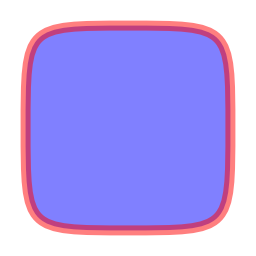
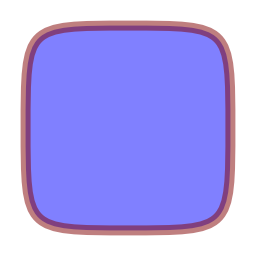
Use NRGBAColor instead of RGBAColor

Changed region(s): [[0.0625, 0.0625, 0.9375, 0.9375]]

diff --git a/cmd/testdraw2d.go b/cmd/testdraw2d.go
@@ -94,8 +94,8 @@ func TestDrawArc() {
 	gc.ArcTo(xc, yc, radiusX, radiusY, startAngle, angle)
 	gc.Stroke()
 	// fill a circle
-	gc.SetStrokeColor(image.RGBAColor{255, 0x33, 0x33, 0x80})
-	gc.SetFillColor(image.RGBAColor{255, 0x33, 0x33, 0x80})
+	gc.SetStrokeColor(image.NRGBAColor{255, 0x33, 0x33, 0x80})
+	gc.SetFillColor(image.NRGBAColor{255, 0x33, 0x33, 0x80})
 	gc.SetLineWidth(6)
 
 	gc.MoveTo(xc, yc)
@@ -125,8 +125,8 @@ func TestDrawArcNegative() {
 	gc.ArcTo(xc, yc, radiusX, radiusY, startAngle, angle)
 	gc.Stroke()
 	// fill a circle
-	gc.SetStrokeColor(image.RGBAColor{255, 0x33, 0x33, 0x80})
-	gc.SetFillColor(image.RGBAColor{255, 0x33, 0x33, 0x80})
+	gc.SetStrokeColor(image.NRGBAColor{255, 0x33, 0x33, 0x80})
+	gc.SetFillColor(image.NRGBAColor{255, 0x33, 0x33, 0x80})
 	gc.SetLineWidth(6)
 
 	gc.MoveTo(xc, yc)
@@ -187,8 +187,8 @@ func TestCurveRectangle() {
 	}
 	gc.Close()
 
-	gc.SetFillColor(image.RGBAColor{0x80, 0x80, 0xFF, 0xFF})
-	gc.SetStrokeColor(image.RGBAColor{0x80, 0, 0, 0x80})
+	gc.SetFillColor(image.NRGBAColor{0x80, 0x80, 0xFF, 0xFF})
+	gc.SetStrokeColor(image.NRGBAColor{0x80, 0, 0, 0x80})
 	gc.SetLineWidth(10.0)
 	gc.FillStroke()
 
@@ -205,13 +205,13 @@ func TestDrawCubicCurve() {
 	x2, y2 := 153.6, 25.6
 	x3, y3 := 230.4, 128.0
 
-	gc.SetFillColor(image.RGBAColor{0xAA, 0xAA, 0xAA, 0xFF})
+	gc.SetFillColor(image.NRGBAColor{0xAA, 0xAA, 0xAA, 0xFF})
 	gc.SetLineWidth(10)
 	gc.MoveTo(x, y)
 	gc.CubicCurveTo(x1, y1, x2, y2, x3, y3)
 	gc.Stroke()
 
-	gc.SetStrokeColor(image.RGBAColor{0xFF, 0x33, 0x33, 0x88})
+	gc.SetStrokeColor(image.NRGBAColor{0xFF, 0x33, 0x33, 0x88})
 
 	gc.SetLineWidth(6)
 	// draw segment of curve
@@ -262,7 +262,7 @@ func TestFillStroke() {
 	gc.Close()
 
 	gc.SetLineWidth(10.0)
-	gc.SetFillColor(image.RGBAColor{0, 0, 0xFF, 0xFF})
+	gc.SetFillColor(image.NRGBAColor{0, 0, 0xFF, 0xFF})
 	gc.SetStrokeColor(image.Black)
 	gc.FillStroke()
 	saveToPngFile("TestFillStroke", i)
@@ -283,7 +283,7 @@ func TestFillStyle() {
 	wheel2.ArcTo(192, 64, 40, 40, 0, 2*math.Pi)
 
 	gc.SetFillRule(draw2d.FillRuleEvenOdd)
-	gc.SetFillColor(image.RGBAColor{0, 0xB2, 0, 0xFF})
+	gc.SetFillColor(image.NRGBAColor{0, 0xB2, 0, 0xFF})
 
 	gc.SetStrokeColor(image.Black)
 	gc.FillStroke(wheel1, wheel2)
@@ -295,7 +295,7 @@ func TestFillStyle() {
 	wheel2.ArcTo(192, 192, 40, 40, 0, -2*math.Pi)
 
 	gc.SetFillRule(draw2d.FillRuleWinding)
-	gc.SetFillColor(image.RGBAColor{0, 0, 0xE5, 0xFF})
+	gc.SetFillColor(image.NRGBAColor{0, 0, 0xE5, 0xFF})
 	gc.FillStroke(wheel1, wheel2)
 	saveToPngFile("TestFillStyle", i)
 }
@@ -335,8 +335,8 @@ func TestRoundRectangle() {
 	gc.ArcTo(x+radius, y+radius, radius, radius, 180*degrees, 90*degrees)
 	gc.Close()
 
-	gc.SetFillColor(image.RGBAColor{0x80, 0x80, 0xFF, 0xFF})
-	gc.SetStrokeColor(image.RGBAColor{0x80, 0, 0, 0x80})
+	gc.SetFillColor(image.NRGBAColor{0x80, 0x80, 0xFF, 0xFF})
+	gc.SetStrokeColor(image.NRGBAColor{0x80, 0, 0, 0x80})
 	gc.SetLineWidth(10.0)
 	gc.FillStroke()
 
@@ -360,7 +360,7 @@ func TestLineCap() {
 	gc.Stroke()
 
 	/* draw helping lines */
-	gc.SetStrokeColor(image.RGBAColor{0xFF, 0x33, 0x33, 0xFF})
+	gc.SetStrokeColor(image.NRGBAColor{0xFF, 0x33, 0x33, 0xFF})
 	gc.SetLineWidth(2.56)
 	gc.MoveTo(64.0, 50.0)
 	gc.LineTo(64.0, 200.0)
